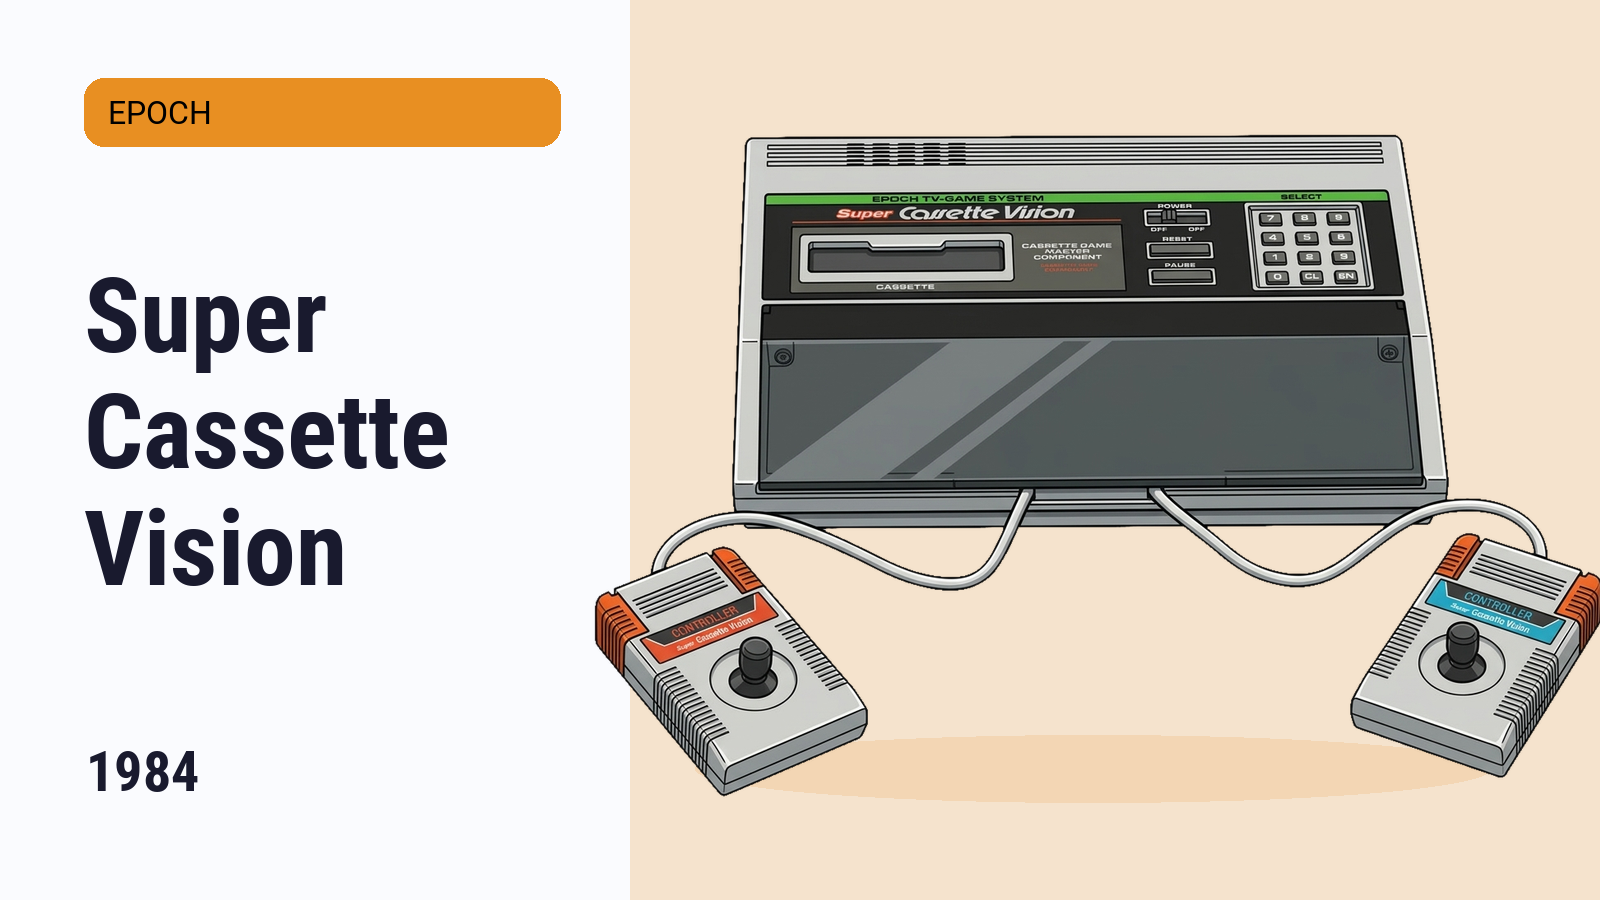
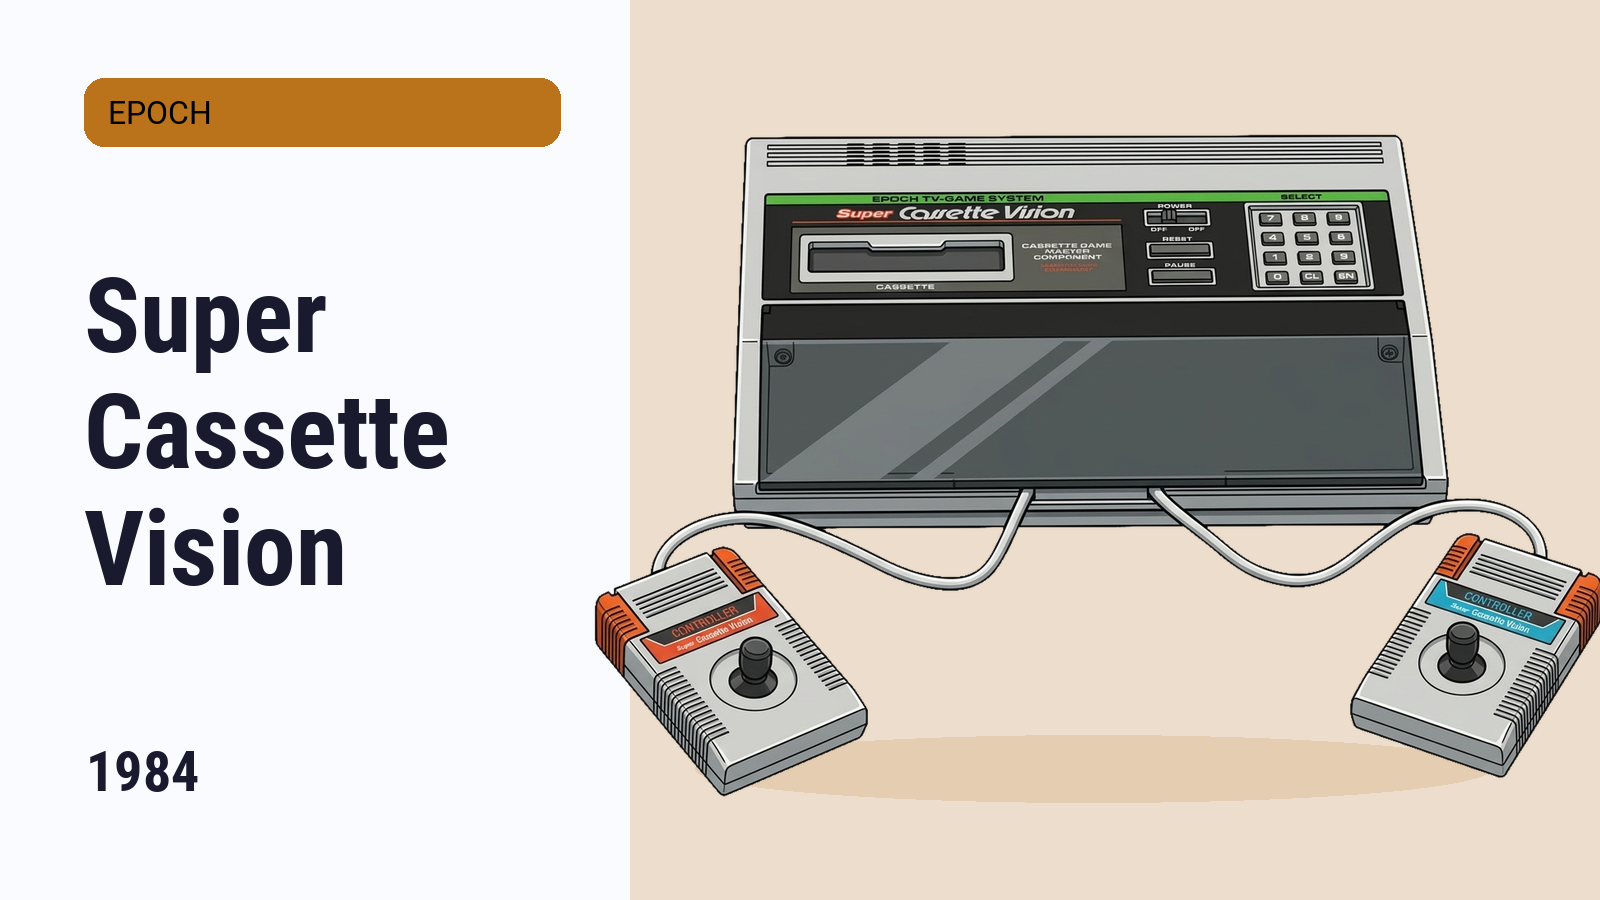
fix: accent colors for scv and megaduck

Changed region(s): [[0.0312, 0.0622, 0.375, 0.1867]]

diff --git a/systems/rgds/tools/build-multi-pop-art.py b/systems/rgds/tools/build-multi-pop-art.py
@@ -86,8 +86,8 @@ SYSTEMS = {
     "fds": ("Famicom Disk System", "Nintendo", "1986", "99132E"),
     "msx2": ("MSX2", "MSX", "1985", "161313"),
     "megacd": ("Mega CD", "Sega", "1992", "7D89C4"),
-    "scv": ("Super Cassette Vision", "Epoch", "1984", "E88F22"),
-    "megaduck": ("Mega Duck", "Welback", "1993", "22DEE8"),
+    "scv": ("Super Cassette Vision", "Epoch", "1984", "BB731B"),
+    "megaduck": ("Mega Duck", "Welback", "1993", "159097"),
     "n64dd": ("Nintendo 64 DD", "Nintendo", "1999", "1A826B"),
     "pokemini": ("Pokémon Mini", "Nintendo", "2001", "5F1A82"),
     "doom": ("Doom", "ID", "1993", "1C380A"),
